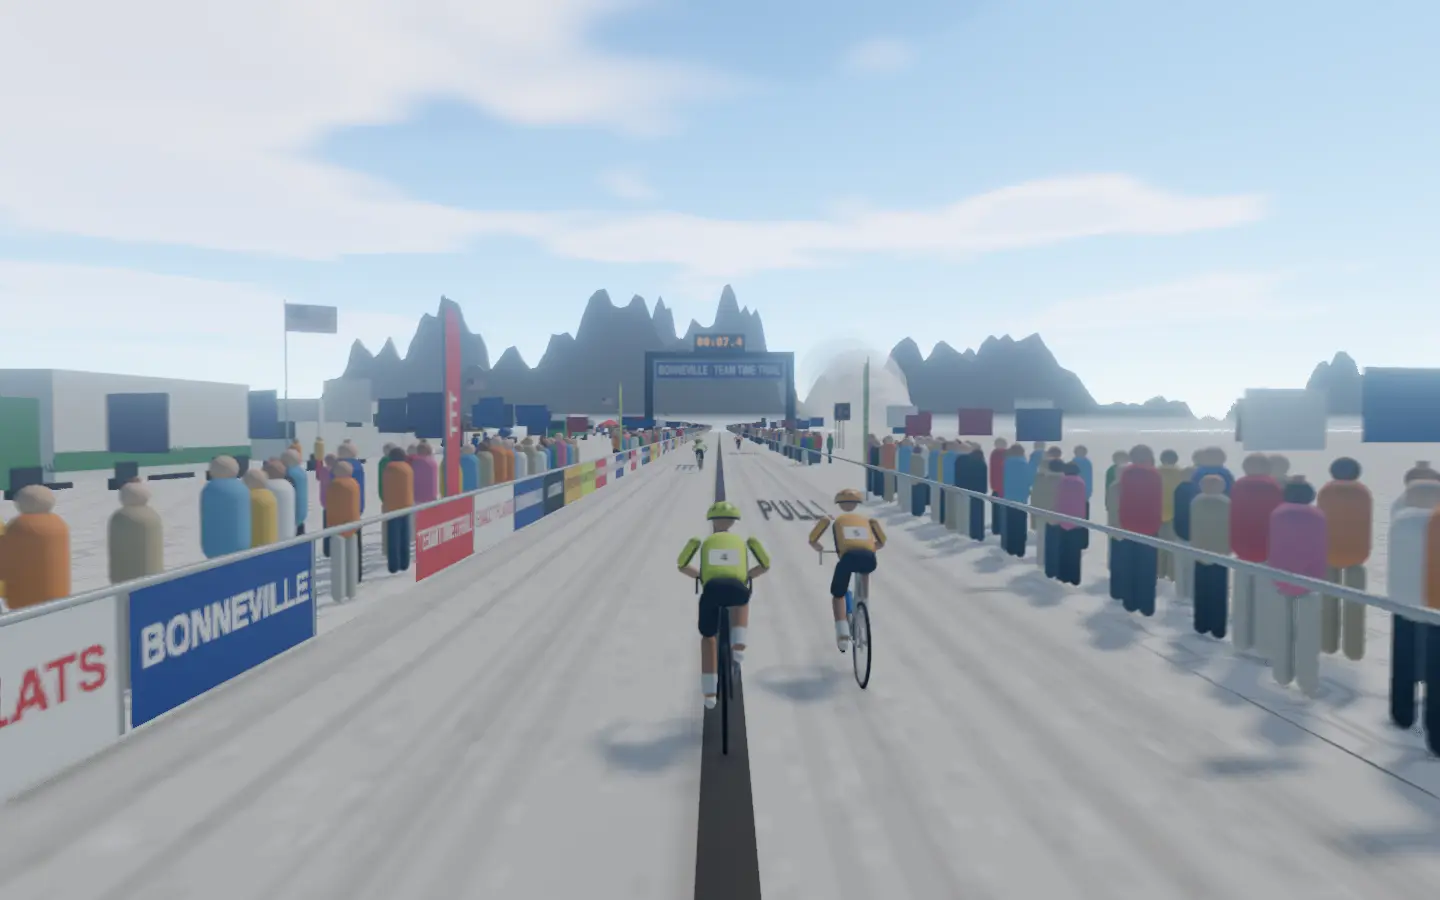
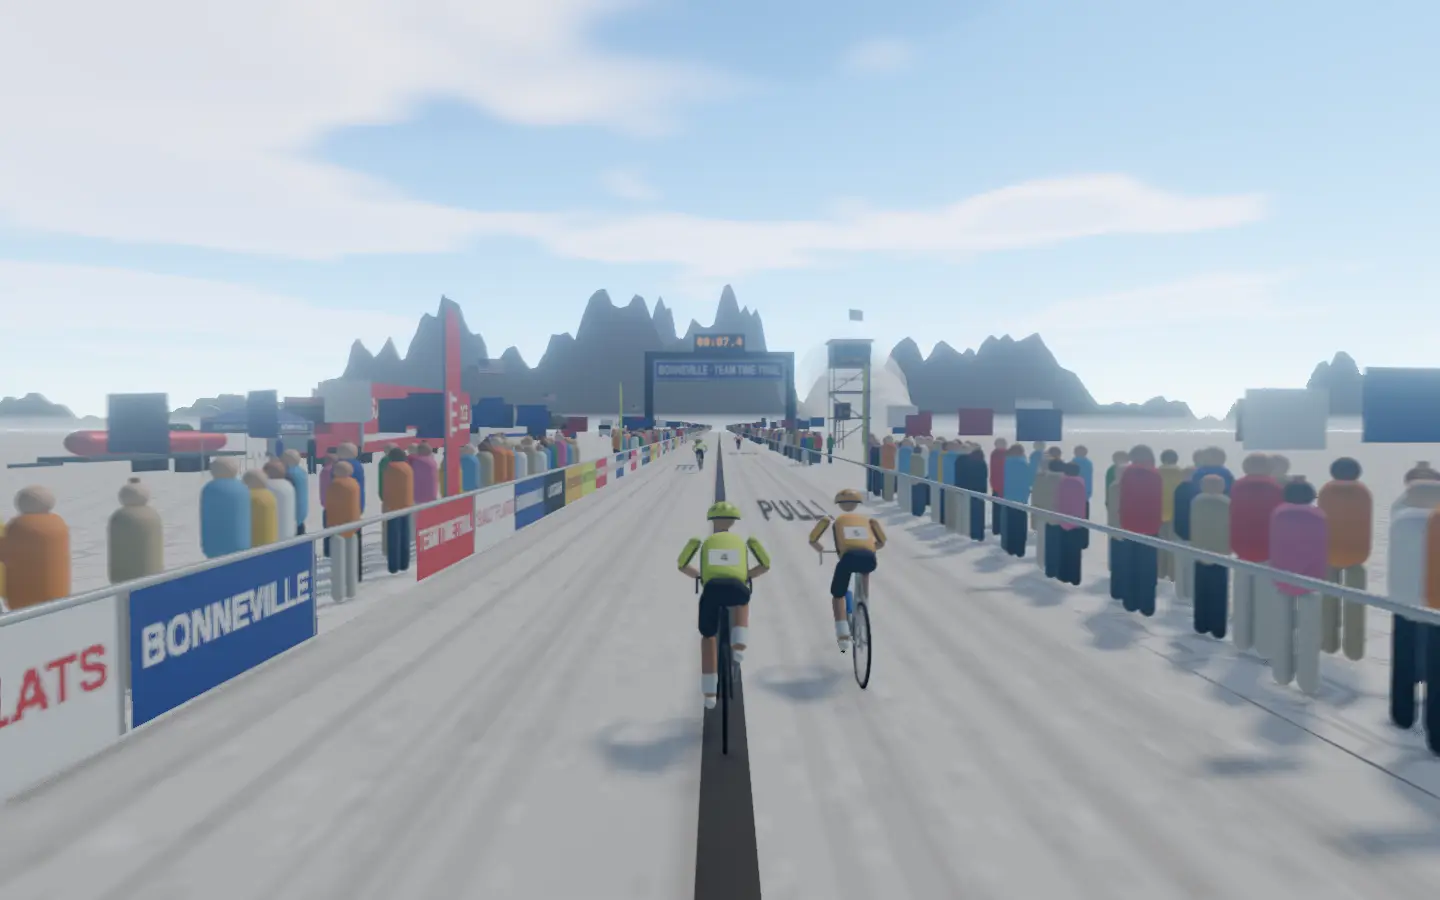
Park race haulers in Bonneville's pits and raise the timing tower

Changed region(s): [[0.0, 0.4044, 0.4375, 0.56], [0.5625, 0.3733, 0.625, 0.4978], [0.1875, 0.3111, 0.25, 0.3733]]

diff --git a/frontend/projects/wattzup/src/app/core/world-bonneville.ts b/frontend/projects/wattzup/src/app/core/world-bonneville.ts
@@ -10,6 +10,7 @@
 // canvas textures and a loop that recycles the course, with the shared crowd, figures, barriers,
 // banners, canopies, feather flags, road paint and box builder of world-kit.ts.
 import {
+  BoxGeometry,
   type CanvasTexture,
   CapsuleGeometry,
   Color,
@@ -124,6 +125,16 @@ const CANOPIES: readonly (readonly [string, string, string])[] = [
   ['TIMING', '#111111', '#f2c230'],
   ['PIT 12', '#2a8a4a', '#ffffff'],
 ];
+/** The race teams' haulers: the name down the trailer's side, its colour and its ink. */
+const HAULERS: readonly (readonly [string, string, string])[] = [
+  ['SALT DEMONS RACING', '#d8283a', '#ffffff'],
+  ['200 MPH CLUB', '#1d3c8f', '#f2c230'],
+  ['WATTZUP SPEED', '#1b1e24', '#d7ff3a'],
+  ['LAND SPEED RACING', '#f2c230', '#1b1e24'],
+  ['BONNEVILLE BOYS', '#2a8a4a', '#ffffff'],
+];
+/** The timing tower stands on the right, in the opening view. */
+const TOWER = 185;
 /** The streamliners' liveries. */
 const LIVERIES = [0xd8283a, 0x1d3c8f, 0xf2c230, 0xf4f4f0, 0x2a8a4a, 0xf08a2a];
 
@@ -176,6 +187,7 @@ export class BonnevilleStreet implements SceneStreet {
     this.crowd.build();
     this.addPits();
     this.addTiming();
+    this.addTimingTower();
     this.addSpeedRun(points);
     this.addGantry(roadHalf);
     this.addFeatherFlags();
@@ -288,9 +300,18 @@ export class BonnevilleStreet implements SceneStreet {
     const make = {
       motorhome: (k: number) => this.motorhome(k),
       truck: (k: number) => this.truck(k),
+      hauler: (k: number) => this.hauler(k),
       streamliner: (k: number) => this.streamliner(k),
     };
-    const kinds = ['motorhome', 'streamliner', 'truck', 'motorhome', 'streamliner'] as const;
+    const kinds = [
+      'hauler',
+      'motorhome',
+      'streamliner',
+      'hauler',
+      'truck',
+      'motorhome',
+      'streamliner',
+    ] as const;
     const built = kinds.map((kind, k) => make[kind](k));
     const pole = new CylinderGeometry(0.04, 0.05, 7, 6);
     pole.translate(0, 3.5, 0);
@@ -300,7 +321,7 @@ export class BonnevilleStreet implements SceneStreet {
     const steel = this.material({ color: 0xc8ccd0, metalness: 0.5, roughness: 0.4 });
     const stars = this.material({ map: this.track(starsAndStripes()), side: DoubleSide });
     let k = 0;
-    for (let offset = 8; offset < LOOP; offset += 13 + random() * 7) {
+    for (let offset = 8; offset < LOOP; offset += 16 + random() * 8) {
       const x = -(17 + random() * 14);
       const holder = new Group();
       const vehicle = built[k % built.length]!.clone();
@@ -374,6 +395,36 @@ export class BonnevilleStreet implements SceneStreet {
       for (const x of [-1.15, 1.15]) b.box(tyre, [0.32, 0.9, 0.9], [x, 0.45, z]);
     }
     return b.build(this.disposables);
+  }
+
+  /**
+   * A race team's hauler: an articulated cab and a 16 m box trailer 4 m high, the team's livery
+   * and name painted down both its sides, with its wheels and the cab's glass.
+   */
+  private hauler(k: number): Group {
+    const [name, fill, ink] = HAULERS[k % HAULERS.length]!;
+    const b = new BoxBuilder();
+    const cab = this.material({ color: fill, metalness: 0.3, roughness: 0.4 });
+    const chrome = this.material({ color: 0xd8dce0, metalness: 0.8, roughness: 0.25 });
+    const glass = this.material({ color: 0x24303a, roughness: 0.2, metalness: 0.3 });
+    const tyre = this.material({ color: 0x1c1c1c, roughness: 0.95 });
+    b.box(cab, [2.5, 3.1, 3], [0, 2.05, 9.6]);
+    b.box(cab, [2.5, 1.2, 2], [0, 1.1, 11.6]);
+    b.box(glass, [2.4, 1.0, 0.1], [0, 2.7, 11.12]);
+    b.box(chrome, [2.3, 0.9, 0.12], [0, 1.2, 12.62]);
+    for (const x of [-1.35, 1.35]) b.box(chrome, [0.18, 3.2, 0.18], [x, 2.6, 8.2]);
+    for (const z of [11, 8.6, 7.4, -4.6, -5.8, -7]) {
+      for (const x of [-1.1, 1.1]) b.box(tyre, [0.35, 1, 1], [x, 0.5, z]);
+    }
+    const g = b.build(this.disposables);
+    const white = this.material({ color: 0xf4f4f0, roughness: 0.55 });
+    const side = this.material({ map: this.track(haulerTexture(name, fill, ink)), roughness: 0.5 });
+    const trailer = new Mesh(new BoxGeometry(2.6, 4, 16), [side, side, white, white, white, white]);
+    this.disposables.push(trailer.geometry);
+    trailer.position.set(0, 2.6, 0);
+    trailer.castShadow = true;
+    g.add(trailer);
+    return g;
   }
 
   /**
@@ -454,6 +505,62 @@ export class BonnevilleStreet implements SceneStreet {
     }
     this.group.add(this.runner);
     this.setTime(this.time);
+  }
+
+  /**
+   * The timing tower on the right: a three-level scaffold with stairs zigzagging up it, the
+   * glazed booth on top under its roof, the TIMING banner round its rail and a flag over it.
+   */
+  private addTimingTower(): void {
+    const b = new BoxBuilder();
+    const steel = this.material({ color: 0xc0c4c8, metalness: 0.6, roughness: 0.35 });
+    const deck = this.material({ color: 0x6a6e74, metalness: 0.4, roughness: 0.6 });
+    const booth = this.material({ color: 0xf4f4f0, roughness: 0.5 });
+    const glass = this.material({ color: 0x2a3a48, roughness: 0.15, metalness: 0.4 });
+    const roof = this.material({ color: 0xd8283a, roughness: 0.6 });
+    for (const x of [-2, 2]) for (const z of [-2, 2]) b.box(steel, [0.16, 9, 0.16], [x, 4.5, z]);
+    for (const y of [3, 6, 9]) {
+      b.box(deck, [4.4, 0.18, 4.4], [0, y, 0]);
+      for (const z of [-2, 2]) b.box(steel, [4.2, 0.06, 0.06], [0, y - 1.5, z]);
+    }
+    // The stairs, a flight to each level, alternating sides.
+    for (let level = 0; level < 3; level++) {
+      const z = level % 2 ? -2.6 : 2.6;
+      b.box(steel, [4.4, 0.1, 0.9], [0, level * 3 + 1.5, z], level % 2 ? -0.6 : 0.6);
+    }
+    b.box(booth, [4.2, 1.1, 4.2], [0, 9.65, 0]);
+    b.box(glass, [4.3, 1.2, 4.3], [0, 10.8, 0]);
+    b.box(booth, [4.2, 0.3, 4.2], [0, 11.55, 0]);
+    b.box(roof, [5, 0.25, 5], [0, 11.8, 0]);
+    b.box(steel, [0.06, 4, 0.06], [0, 13.9, 0]);
+    const tower = b.build(this.disposables);
+    const banner = new PlaneGeometry(4.2, 1.1);
+    const cloth = new PlaneGeometry(2.2, 1.3);
+    cloth.translate(1.12, 15, 0);
+    this.disposables.push(banner, cloth);
+    const timing = this.material({
+      map: this.track(clothBannerTexture('SCTA TIMING', '#1b1e24', '#f2c230')),
+      side: DoubleSide,
+    });
+    for (const [x, ry] of [
+      [-2.12, -Math.PI / 2],
+      [0, 0],
+    ] as const) {
+      const face = new Mesh(banner, timing);
+      face.position.set(x, 9.65, x ? 0 : 2.12);
+      face.rotation.y = ry;
+      tower.add(face);
+    }
+    const flag = new Mesh(
+      cloth,
+      this.material({ map: this.track(starsAndStripes()), side: DoubleSide }),
+    );
+    flag.rotation.y = 0.6;
+    tower.add(flag);
+    const holder = new Group();
+    holder.add(tower);
+    this.group.add(holder);
+    this.props.push({ mesh: holder, offset: TOWER, x: 15 });
   }
 
   /**
@@ -761,5 +868,25 @@ function mirageTexture(): CanvasTexture {
       g.fillStyle = random() < 0.5 ? 'rgba(170,196,220,0.35)' : 'rgba(255,255,255,0.6)';
       g.fillRect(random() * 256, 18 + random() * 30, 20 + random() * 60, 1 + random() * 2);
     }
+  });
+}
+
+/** A hauler's side: the team's colour, a sweep of ink, the name large along it. */
+function haulerTexture(name: string, fill: string, ink: string): CanvasTexture {
+  return canvasTexture(640, 160, (g) => {
+    g.fillStyle = fill;
+    g.fillRect(0, 0, 640, 160);
+    g.fillStyle = ink;
+    g.beginPath();
+    g.moveTo(0, 120);
+    g.lineTo(640, 92);
+    g.lineTo(640, 106);
+    g.lineTo(0, 136);
+    g.closePath();
+    g.fill();
+    g.font = 'bold italic 62px sans-serif';
+    g.textAlign = 'center';
+    g.textBaseline = 'middle';
+    g.fillText(name, 320, 62, 600);
   });
 }

diff --git a/docs/detailed-designs/world-ride/draw-class-scene/README.md b/docs/detailed-designs/world-ride/draw-class-scene/README.md
@@ -394,8 +394,9 @@ None.
 - **Bonneville Salt Flats (`core/world-bonneville.ts`).** For `bonneville`, the speedway course across the endless white salt of Utah under a blazing summer sky, closed for a team time trial during Speed Week:
   - the course is the salt itself, packed smooth and scored with tyre tracks, its black line down the middle; either side the white crust of the flats, cracked into polygons, out to the horizon; race barriers hung with the ride's banners (BONNEVILLE, SALT FLATS, TEAM TIME TRIAL, WATTZUP, SPEED WEEK, UTAH), the kit's feather flags every 20 m along both, and names painted on the salt in dark paint every 20 m;
   - fans in clumps along the barriers in bright shirts and sun hats (the shared crowd), with open salt between;
-  - on the left, 17 to 31 m out, the pits every 13 to 20 m: motorhomes, box trucks with their trailers, and streamliners on open trailers in their liveries, each built with the kit's box builder; pop-up canopies (the kit's) with the teams' names beside every other one, the Stars and Stripes on tall poles, and thirty crew (the kit's figures) among them;
+  - on the left, 17 to 31 m out, the pits every 16 to 24 m: race teams' haulers (an articulated cab and a 16 m box trailer 4 m high, the team's livery and name down both sides: SALT DEMONS RACING, 200 MPH CLUB, WATTZUP SPEED and more), motorhomes, box trucks with their trailers, and streamliners on open trailers in their liveries, each built with the kit's box builder; pop-up canopies (the kit's) with the teams' names beside every other one, the Stars and Stripes on tall poles, and thirty crew (the kit's figures) among them;
   - on the right, 11 m out on the open salt, every 125 m a black mile board with its number in orange and a pair of timing lights;
+  - the timing tower on the right, 15 m out and 90 m ahead in the opening view: a three-level steel scaffold with stairs zigzagging up it, the glazed booth on top under a red roof, SCTA TIMING round its rail and the Stars and Stripes over it;
   - Speed Week's run, 30 m out on the right: a streamliner (the pits' model, off its trailer on its own small wheels) tearing down its own course, marked by a black line on the salt, toward the rider at 70 m a second, round again when it passes; a rooster tail of salt spray, twenty-two white puffs, streams back behind it, rising and spreading to about 13 m high and boiling as it goes (`setTime` moves it, so it holds still for reduced motion), and shows over the crowd;
   - a timing gantry over the course 55 m ahead in the opening view: black truss towers, the beam with BONNEVILLE · TEAM TIME TRIAL, and the race clock above it;
   - 300 m ahead the horizon, where the Silver Island Mountains rise in two rugged ridges, the near one brown 2.6 km off and up to 520 m high, the far one bluer and up to 760 m behind it, with Pilot Peak's range to the right and lower hills to the left, all floating on the bright, streaked band of a mirage with their reflections inverted faintly beneath, all hazed by hand. Everything along the course is hidden past it.

diff --git a/docs/class-worlds.md b/docs/class-worlds.md
@@ -40,7 +40,7 @@ Every class in `frontend/public/classes.json`, with its World Ride scene. Render
 | 34 | Short, Sharp & Hard Efforts | Montmartre | 81% | Paris cobbles wind up the butte of Montmartre on a golden afternoon, between cream and pink houses with green shutters and café awnings, past the painters at their easels in the Place du Tertre, toward the white domes of Sacré-Cœur on the hilltop. The two-minute warm-up rolls over the cobbles of the lower lanes, the thirty-second kicks punch up the steep ramps past the cafés and painters, and the two- and three-minute blocks climb the winding streets to the basilica. |
 | 35 | Beginner Training Session | Amsterdam Canals | 74% | Flat canal-side streets, humpback bridges and houseboats among friendly commuters. |
 | 36 | Sprint Sprint Sprint | San Fermín, Pamplona (concept) |  | Red scarves and white shirts fill old Pamplona; sprint the bull-run streets at festival dawn. |
-| 37 | Team Time Trial | Bonneville Salt Flats | 75% | An endless white salt plain stretches away under a blazing Utah sky, the speedway course marked by its black line past the pits of Speed Week toward the Silver Island Mountains floating on a shimmering mirage. The three-minute warm-up rolls out past the motorhomes and the parked streamliners, each thirty-second and one-minute turn drives the paceline hard between the mile boards, and the recoveries sit in on the wheels with the mirage mountains still floating ahead. |
+| 37 | Team Time Trial | Bonneville Salt Flats | 78% | An endless white salt plain stretches away under a blazing Utah sky, the speedway course marked by its black line past the pits of Speed Week toward the Silver Island Mountains floating on a shimmering mirage. The three-minute warm-up rolls out past the motorhomes and the parked streamliners, each thirty-second and one-minute turn drives the paceline hard between the mile boards, and the recoveries sit in on the wheels with the mirage mountains still floating ahead. |
 | 38 | The Pyramid | Giza Plateau | 72% | Desert road around the pyramids at sunrise; efforts build and fall like the stones. |
 | 39 | Hold Your Intensity | Great Ocean Road (concept) |  | Australian sea cliffs and the Twelve Apostles; hold steady through winding, spray-dashed bends. |
 | 40 | Give Me One Minute | Times Square New Year's Eve (concept) |  | Confetti and countdown screens; every one-minute effort counts down to the ball drop. |
